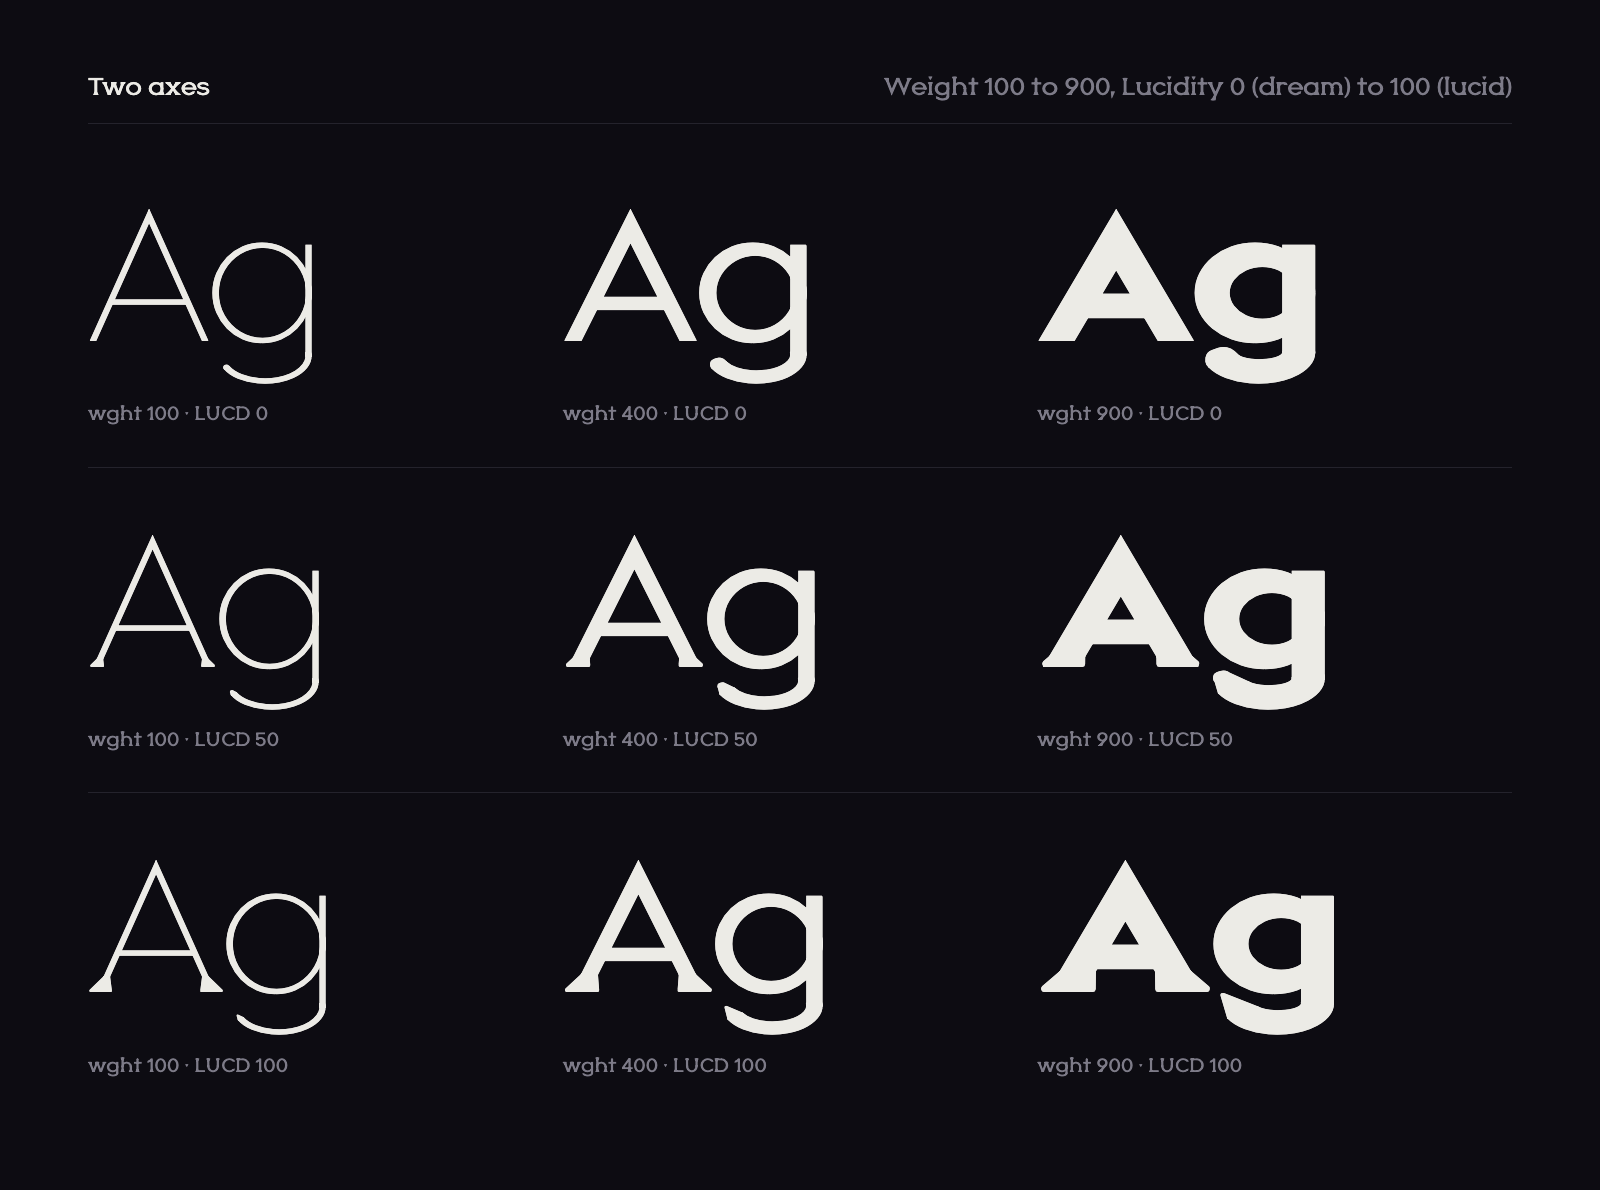
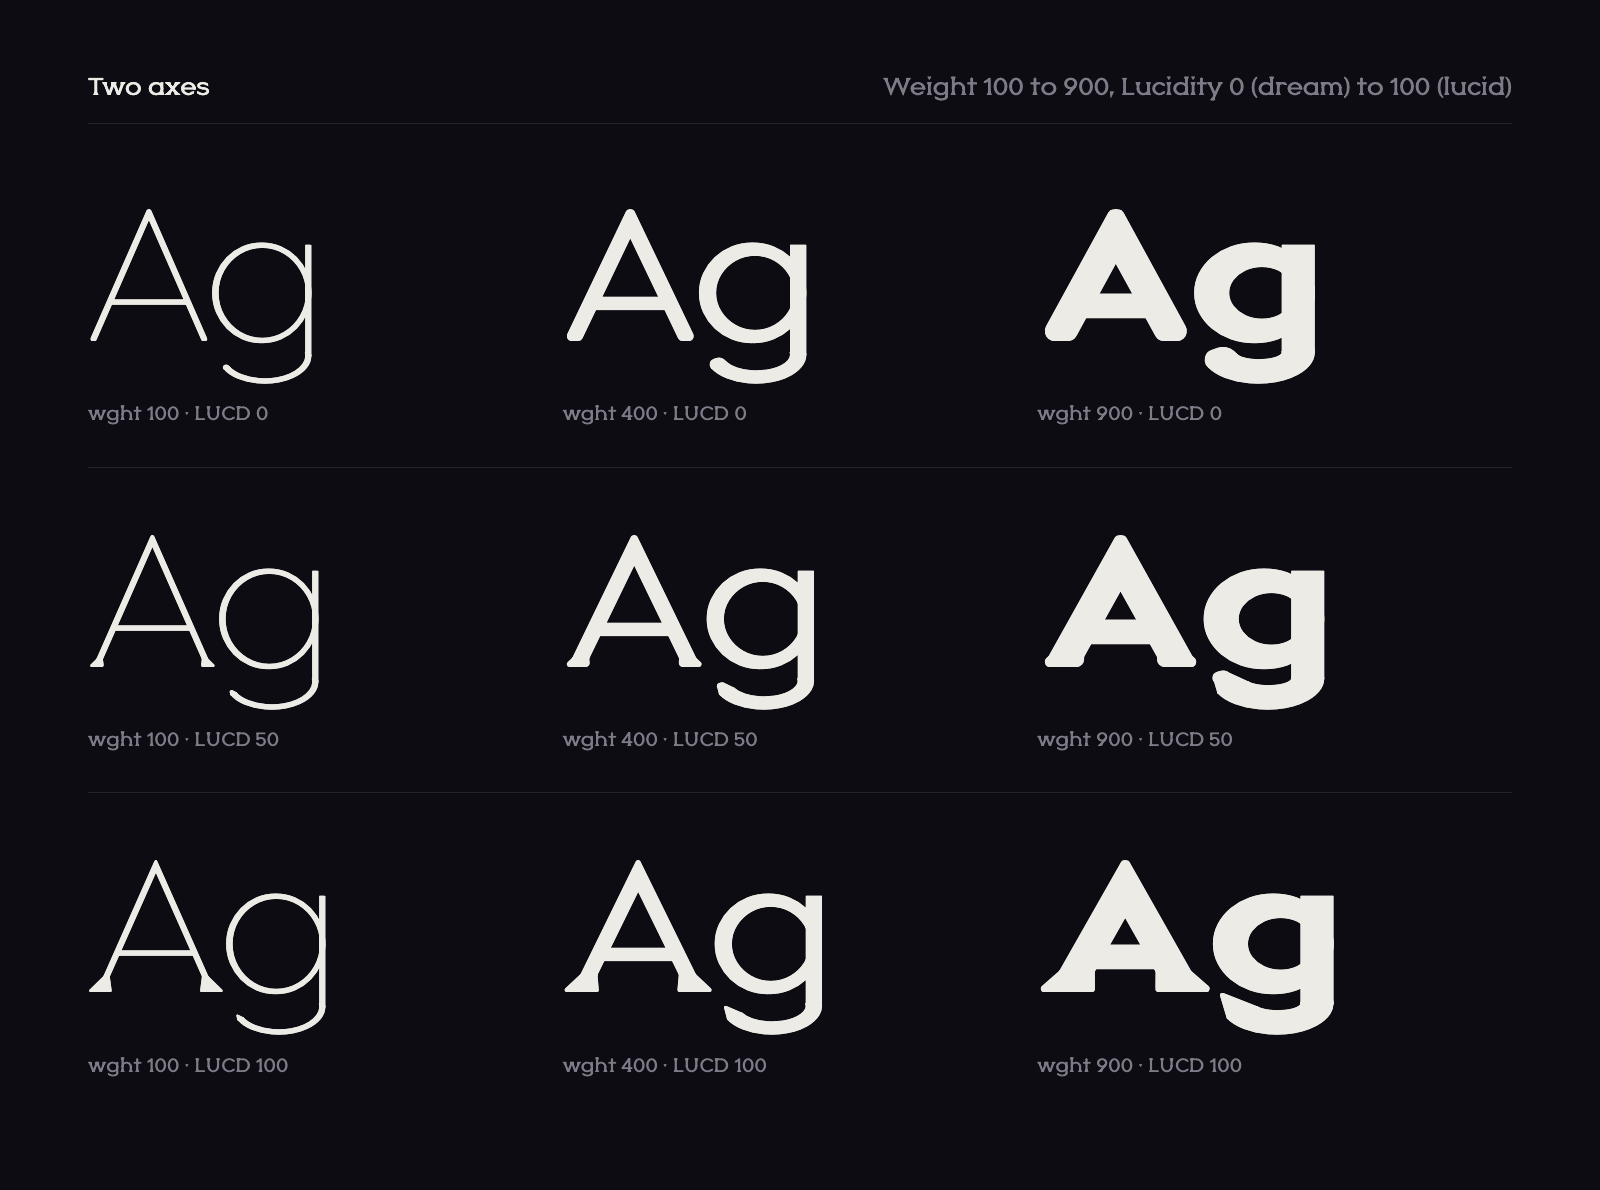
Spec and agent notes for soft vertices, tip room and the avar; README images

diff --git a/AGENTS.md b/AGENTS.md
@@ -10,11 +10,12 @@ Read [DESIGN.md](DESIGN.md) first. It is the spec every glyph is checked against
 | `tools/oneira/params.py` | Metrics, the stroke model `P(t, w)`, glyph and composite registries, spacing classes |
 | `tools/oneira/parts.py` | Shared construction: stems, bowls, arches, cups, hooks, dots, pointed vertices, Z |
 | `tools/oneira/lower.py`, `upper.py`, `figures.py`, `punct.py`, `marks.py`, `latin1.py`, `symbols.py` | The glyphs |
-| `tools/oneira/kerning.py` | Kerning classes and pair values (set at Regular, scaled by weight) |
+| `tools/oneira/kerning.py` | Kerning classes and pair values (set at Regular, scaled by weight), plus pairs that ease off with Lucidity |
 | `tools/build.py` | Draws six masters to `sources/`, compiles the variable font; `--release` adds statics and WOFF2 |
 | `tools/proof.py` | Proof sheets in headless Chromium |
 | `tools/inspect_glyph.py` | One glyph's outline, points and handles from a master UFO |
 | `tools/readme_images.py` | The README images, dark and light |
+| `tools/ramp.py` | The weight ramp as the grey of running text; `--solve` prints the avar map for `build.py` |
 
 `sources/` and `fonts/` are build output. Edit the Python, never the UFOs.
 
@@ -23,7 +24,8 @@ Read [DESIGN.md](DESIGN.md) first. It is the spec every glyph is checked against
 - **Every primitive emits a fixed number of points**, whatever its parameters, so the masters interpolate. Arc sweeps must stay in the same 90 degree band across masters, or fontmake fails its compatibility check.
 - **Never let two contours share an exact edge.** Antialiasing shows a hairline seam. Overlap them by a few units instead.
 - **Arcs and rings raise if the stroke is thicker than the curve.** Size small curves from their stroke, not the other way round.
-- **Spacing is measured on the dream state** (`LUCD 0`), so wedges hang into the gap the way serifs do. A glyph whose shape changes width with Lucidity will collide.
+- **Spacing is measured on the dream state** (`LUCD 0`, ends unrounded), so wedges hang into the gap the way serifs do. Tips that grow wider at lucid get part of their growth back as room (`TIP_ROOM` in params.py); anything else that changes width with Lucidity will collide.
+- **Pass free ends to the stroke primitives.** `diag(ends=)`, `clipped(r=)` and `pointed(free=)` round a free end in the dream state with `p.end_r`; a join gets 0. Wedges take `p.wedge_r` so their hidden dream base never pokes out of a rounded end.
 - **Proof only in Chromium.** Pillow and some previewers render overlapping contours wrongly.
 - **Check the exit status of `build.py`.** Piping it into `tail` hides a failed build.
 

diff --git a/DESIGN.md b/DESIGN.md
@@ -44,11 +44,22 @@ Optical rules, applied everywhere:
    faster than verticals.
 6. **Triangles are equilateral.** Flare grows the base; the 60 degree angle never
    changes. Soft corner radius is 5 at Thin and 16 at Black.
+7. **No corner is razor sharp.** Every free stroke end, straight or diagonal,
+   rounds in the dream state. A pointed vertex (A, V, W, M) is a small flat
+   with soft corners, twice as soft at dream as at lucid, and still reaches
+   the overshoot. Even a hidden corner rounds by at least 2 units.
+
+The weight axis has an avar: the named weights sit where the grey of
+running text darkens by equal steps on each side of Regular
+(`tools/ramp.py --solve`).
 
 ## Spacing
 
-Sidebearings are measured from the plain sans skeleton (LUCD 0), so wedges hang
-into the gap the way serifs do. Each glyph side is one of: straight, round,
+Sidebearings are measured from the plain sans skeleton (LUCD 0, ends
+unrounded), so wedges hang into the gap the way serifs do. A tip that grows
+past that outline on a side without wedges (c, e, r, braces, quotes) gets 60
+percent of its growth back as room. Kerning follows weight and Lucidity:
+pairs whose wedges or tips meet at lucid ease off as the triangles grow in. Each glyph side is one of: straight, round,
 diagonal, or open (bars, arms, terminals), plus per-glyph overrides. Control
 strings: `nnonnoon`, `HHOHHOOH`, `nnannbnndnn`.
 
